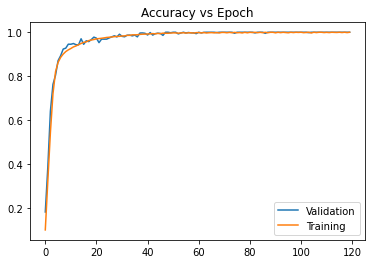
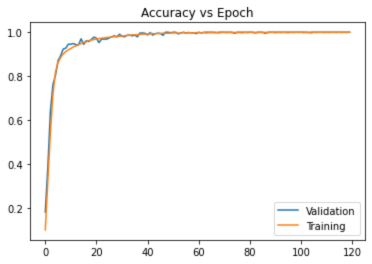
streamlit changes

Changed region(s): [[0.0, 0.0303, 1.0, 0.9697], [0.1478, 0.1212, 0.9462, 0.2727], [0.1183, 0.303, 0.1478, 0.8485]]

diff --git a/streamlit/my_pages/vigenere.py b/streamlit/my_pages/vigenere.py
@@ -285,8 +285,8 @@ def vigenere_card(button_callback):
         st.write(f':blue[Neural Network Output:] {ct}')
         st.write(f':red[Cipher Output:] {ct}')
     
-
-
+    st.image('./media/vigenere_seq2seq_acc.png')
+    st.image('./media/vigenere_seq2seq_loss.png')
 
 
 

diff --git a/streamlit/my_pages/caesar_seq.py b/streamlit/my_pages/caesar_seq.py
@@ -44,3 +44,6 @@ def caeser_seq_card(button_callback):
 
         st.write(f':blue[Neural Network Output:] {ct}')
         st.write(f':red[Cipher Output:] {ct}')
+
+    st.image('./media/caesar_seq_acc.png')
+    st.image('./media/caesar_seq_loss.png')
